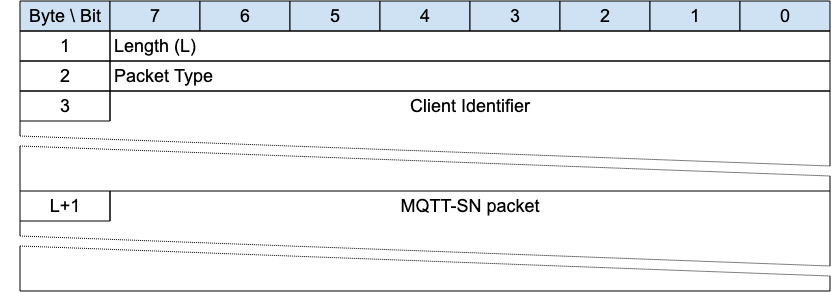
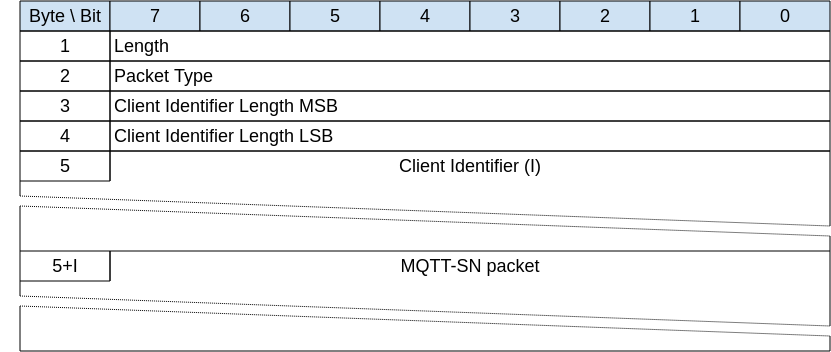
Change the length of Forwarder and Connection Encapsulations to be the whole packet #144

Changed region(s): [[0.0, 0.0, 1.0, 0.9555], [0.0301, 0.9863, 1.0, 1.0], [0.0, 0.5548, 0.1504, 0.6164]]

diff --git a/mqtt-sn-2.0/prose/edit/src/ctrl-pack-format-01-structure.md b/mqtt-sn-2.0/prose/edit/src/ctrl-pack-format-01-structure.md
@@ -74,9 +74,10 @@ The MQTT-SN Control Packet Type field is a 1-byte unsigned value, the values are
 |        **ADVERTISE**         |   0x16    |             Server to Clients              | Advertise the Server presence                                                                                             |
 |         **SEARCHGW**         |   0x17    |             Client to Servers              | Client GWINFO request                                                                                                     |
 |          **GWINFO**          |   0x18    |              Server to Client              | Response to a SEARCHGW                                                                                                    |
-|         **Reserved**         | 0x19-0xFC |                 Forbidden                  | Reserved                                                                                                                  |
-| **Forwarder Encapsulation**  |   0xFD    | Forwarder to Client or Forwarder to Server | MQTT-SN packet envelope to add addressing information for Forwarders                                                      |
+|         **Reserved**         | 0x19 -0xFB |                 Forbidden                 | Reserved                                                                                                                  |
+| **Forwarder Encapsulation**  |   0xFC    | Forwarder to Client or Forwarder to Server | MQTT-SN packet envelope to add addressing information for Forwarders                                                      |
+|        **Reserved**          |   0xFD    |                  Forbidden                 | Reserved to avoid clash with MQTT-SN 1.2 Encapsulation                                        |
 | **Connection Encapsulation** |   0xFE    |              Client to Server              | MQTT-SN packet envelope to add Connection identification                                                                     |
-| **Protection Encapsulation** |   0xFF    |    Client to Server or Server to Client    | A protection envelope that can encapsulate any MQTT-SN packet with the exception of Forwarder-Encapsulation packet (0xFE) |
+| **Protection Encapsulation** |   0xFF    |    Client to Server or Server to Client    | A protection envelope that can encapsulate any MQTT-SN packet other than the Forwarder Encapsulation (0xFC) |
 
 Table: MQTT-SN Control Packet Types

diff --git a/mqtt-sn-2.0/prose/edit/src/ctrl-pack-catalog-19-forwarder-encapsulation.md b/mqtt-sn-2.0/prose/edit/src/ctrl-pack-catalog-19-forwarder-encapsulation.md
@@ -2,7 +2,7 @@
 
 *Figure 3-30 -- Format of an Forwarder Encapsulated MQTT-SN Packet*
 
-![Format of an Forwarder Encapsulated MQTT-SN Packet](images/image38.png "Format of an Forwarder Encapsulated MQTT-SN Packet")<!-- .width="6.5in", .height="2.2777777777777777in" -->
+![Format of an Forwarder Encapsulated MQTT-SN Packet](images/forwarder-encapsulation-packet-diagram.png "Format of an Forwarder Encapsulated MQTT-SN Packet")<!-- .width="6.5in", .height="2.2777777777777777in" -->
 
 An MQTT-SN Client can access a Server through a Forwarder in case the Server is not directly attached to the same Underlying Network as the Client. The Forwarder encapsulates the MQTT-SN Packets it receives from the Client and sends them unchanged to the Server. In the opposite direction, it decapsulates the Packets it receives from the Server and sends them unchanged to the Clients.
 
@@ -12,7 +12,11 @@ The Forwarder Encapsulation contains the addressing information needed by the Fo
 
 The first 2 or 4 bytes of the packet are encoded according to the variable length packet header format. Refer to [sec](#structure-of-an-mqtt-sn-control-packet) for a detailed description.
 
-The Length field specifies the number of bytes up to the end of the Client Addressing Information field, including the Length field itself.
+The Length field specifies the number of bytes in the whole packet, including the encapsulated MQTT-SN Packet.
+
+### Client Addressing Information Length{#client-addressing-information-length}
+
+The one-byte length of the Client Addressing Information field.
 
 ### Client Addressing Information{#client-addressing-information}
 

diff --git a/mqtt-sn-2.0/prose/edit/src/ctrl-pack-catalog-18-connection-encapsulation.md b/mqtt-sn-2.0/prose/edit/src/ctrl-pack-catalog-18-connection-encapsulation.md
@@ -26,7 +26,11 @@ This envelope wraps an MQTT-SN Packet to allow it to be associated with an exist
 
 The first 2 or 4 bytes of the packet are encoded according to the variable length packet header format. Refer to [sec](#structure-of-an-mqtt-sn-control-packet) for a detailed description.
 
-The Length field specifies the number of bytes up to the end of the Client Identifier field, including the Length field itself.
+The Length field specifies the number of bytes in the whole packet, including the encapsulated MQTT-SN Packet.
+
+### Client Identifier Length{#ce---client-identifier-length}
+
+The two byte integer length of the Client Identifier field.
 
 ### Client Identifier{#ce---client-identifier}
 
